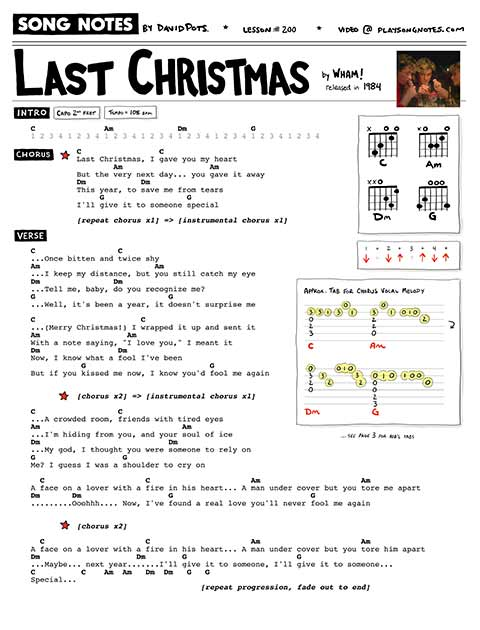
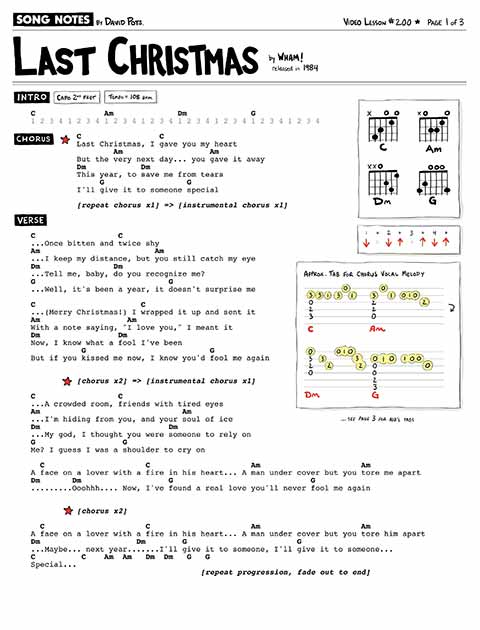
Adds last xmas mn link

Changed region(s): [[0.0, 0.0, 0.9688, 0.9349]]

diff --git a/_includes/latest-songs.html b/_includes/latest-songs.html
@@ -27,7 +27,7 @@
       <h3 class="tile-title"><a href="/lessons/396">Colors</a></h3>
       <p class="tile-meta">by <a href="/search/?query=Black%20Pumas">Black Pumas</a>&nbsp;&nbsp;•&nbsp;&nbsp;Lesson #396</p>
       <!-- <p class="tile-description">Finally, my lesson for the absolute classic from The Beatles' White Album (1968). Whether you're a beginner or more skilled, this step-by-step lesson has you covered. Two full playthroughs included!</p> -->
-        <!-- <p class="tile-badge"><a class="pdf-badge" data-pdf-version="musicnotes" href="/lessons/368"><span class='pdf-icon'>$</span> Sheet Music</a></p> -->
+        <p class="tile-badge"><a class="pdf-badge" data-pdf-version="musicnotes" href="/lessons/396"><span class='pdf-icon'>$</span> Sheet Music</a></p>
         <!-- <p class="tile-badge"><a class="pdf-badge" data-pdf-version="v2" href="_______"><span class='pdf-icon'>★</span> Patreon PDF</a></p> -->
     </div>
   </div>

diff --git a/_lessons/200 [Wham] Last Christmas.md b/_lessons/200 [Wham] Last Christmas.md
@@ -12,11 +12,9 @@ hidden_tags: [George Michael]
 slug: "200"
 redirect_from:
   - /songs/wham-last-christmas/
-#pdf_version: v2
-pdf_version: copyright
+pdf_version: musicnotes
 pdf_numpages: 3
-patreon_lesson_available: true
-patreon_lesson_url: https://www.patreon.com/posts/35741438
+musicnotes_url: https://www.musicnotes.com/l/2TgMb
 ---
 
 ## Video Lesson
@@ -45,75 +43,77 @@ Here's an up-close look at the print-friendly PDF chord sheet I made for this so
 
 ## Lyrics w/ chords
 
-    (capo 2nd fret to be in same key as Wham!)
+Capo 2nd fret to be in same key as Wham!
 
-    INTRO
+    See my page 1 of my sheet music for all the lyrics, with chords included.
 
-        C  /  Am  /  Dm  /  G  /
+<!-- INTRO
 
-    CHORUS
-              C
-              Last Christmas, I gave you my heart
-                      Am
-              But the very next day you gave it away
-              Dm
-              This year, to save me from tears
-                   G
-              I'll give it to someone special
+    C  /  Am  /  Dm  /  G  /
 
-              [chorus x1] => [instrumental chorus x1]
-
-    VERSE
-        C
-        ...Once bitten and twice shy
-        Am
-        ...I keep my distance, but you still catch my eye
-        Dm
-        ...Tell me, baby, do you recognize me?
-        G       
-        ...Well, it's been a year, it doesn't surprise me
-
-        C
-        ...(Merry Christmas!) I wrapped it up and sent it
-        Am
-        With a note saying, "I love you, " I meant it
-        Dm
-        Now, I know what a fool I've been
-                  G
-        But if you kissed me now, I know you'd fool me again
-
-              [chorus x2] => [instrumental chorus x1]
-
-        C
-        ...A crowded room, friends with tired eyes
-        Am
-        ...I'm hiding from you, and your soul of ice
-        Dm
-        ...My god, I thought you were someone to rely on
-        G
-        Me? I guess I was a shoulder to cry on
-
+CHORUS
           C
-        A face on a lover with a fire in his heart
-          Am
-        A man under cover but you tore me apart
-        Dm
-        .........Ooohhh....
-                  G
-        Now, I've found a real love you'll never fool me again
+          Last Christmas, I gave you my heart
+                  Am
+          But the very next day you gave it away
+          Dm
+          This year, to save me from tears
+               G
+          I'll give it to someone special
 
-              [chorus x2]
+          [chorus x1] => [instrumental chorus x1]
 
-          C
-        A face on a lover with a fire in his heart
-          Am
-        A man under cover but you tore him apart
-        Dm
-        ...Maybe... next year...
-             G                                              
-        I'll give it to someone, I'll give it to someone...
-        C        Am    Dm    G    (repeat progression, fade out to end)
-        Special...
+VERSE
+    C
+    ...Once bitten and twice shy
+    Am
+    ...I keep my distance, but you still catch my eye
+    Dm
+    ...Tell me, baby, do you recognize me?
+    G       
+    ...Well, it's been a year, it doesn't surprise me
+
+    C
+    ...(Merry Christmas!) I wrapped it up and sent it
+    Am
+    With a note saying, "I love you, " I meant it
+    Dm
+    Now, I know what a fool I've been
+              G
+    But if you kissed me now, I know you'd fool me again
+
+          [chorus x2] => [instrumental chorus x1]
+
+    C
+    ...A crowded room, friends with tired eyes
+    Am
+    ...I'm hiding from you, and your soul of ice
+    Dm
+    ...My god, I thought you were someone to rely on
+    G
+    Me? I guess I was a shoulder to cry on
+
+      C
+    A face on a lover with a fire in his heart
+      Am
+    A man under cover but you tore me apart
+    Dm
+    .........Ooohhh....
+              G
+    Now, I've found a real love you'll never fool me again
+
+          [chorus x2]
+
+      C
+    A face on a lover with a fire in his heart
+      Am
+    A man under cover but you tore him apart
+    Dm
+    ...Maybe... next year...
+         G                                              
+    I'll give it to someone, I'll give it to someone...
+    C        Am    Dm    G    (repeat progression, fade out to end)
+    Special... -->
 
 ## Chords needed
 
@@ -178,25 +178,29 @@ Finally, perhaps the most advanced of these, would be to include a percussive "s
 
 Something I demonstrate in my video lesson, is how you can add a single note to the voicing of each of the chord shapes - and this can go a long way to spicing up the sound of the song. Shown here are each of the 4 chords I use to play the song, and each of the chords has its "modified" version just to the right.
 
-    E –––0––0––– –––0––0––– –––1––0––– –––3––3–––
-    B –––1––3––– –––1––3––– –––3––3––– –––0––1–––
-    G –––0––0––– –––2––2––– –––2––2––– –––0––0–––
-    D –––2––2––– –––2––2––– –––0––0––– –––0––0–––
-    A –––3––3––– –––0––0––– –––––––––– –––2––2–––
-    E –––––––––– –––––––––– –––––––––– –––3––3–––
-         C          Am         Dm         G
+    See my sheet music for the tab.
+
+<!-- E –––0––0––– –––0––0––– –––1––0––– –––3––3–––
+B –––1––3––– –––1––3––– –––3––3––– –––0––1–––
+G –––0––0––– –––2––2––– –––2––2––– –––0––0–––
+D –––2––2––– –––2––2––– –––0––0––– –––0––0–––
+A –––3––3––– –––0––0––– –––––––––– –––2––2–––
+E –––––––––– –––––––––– –––––––––– –––3––3–––
+     C          Am         Dm         G -->
 
 ## Playing the chorus melody along with chords
 
 Here's the melodic phrase heard during the chorus vocals, that I like to sometimes incorporate into the plucking & strumming of these 4 chords. The key here is to accent these melody notes, and then bring in full strums as you're able. With some practice, you can get the best of both worlds: the recognizability of the melody, mixed with the full sound of the strums.
 
-    E ––––––––––––––––0––––––––––0–––––––––––––––––0–––––0–1–0–––––––––––––––––––––––––
-    B –––3–3–1––1–3–3–––1––––3–3–––1––1–0–1–0––––––3–3–––––––––3–––––0–1–0–0––1–0–0––––
-    G –––0–––––––––––––––––––2––––––––––––––––2––––2–––2–––––––––2–––0––––––––––––––0––
-    D –––2–––––––––––––––––––2–––––––––––––––––––––0–––––––––––––––––0–––––––––––––––––
-    A –––3–––––––––––––––––––0–––––––––––––––––––––––––––––––––––––––2–––––––––––––––––
-    E –––––––––––––––––––––––––––––––––––––––––––––––––––––––––––––––3–––––––––––––––––
-         C                   Am                    Dm                G
+    See my sheet music for the tab.
+
+<!-- E ––––––––––––––––0––––––––––0–––––––––––––––––0–––––0–1–0–––––––––––––––––––––––––
+B –––3–3–1––1–3–3–––1––––3–3–––1––1–0–1–0––––––3–3–––––––––3–––––0–1–0–0––1–0–0––––
+G –––0–––––––––––––––––––2––––––––––––––––2––––2–––2–––––––––2–––0––––––––––––––0––
+D –––2–––––––––––––––––––2–––––––––––––––––––––0–––––––––––––––––0–––––––––––––––––
+A –––3–––––––––––––––––––0–––––––––––––––––––––––––––––––––––––––2–––––––––––––––––
+E –––––––––––––––––––––––––––––––––––––––––––––––––––––––––––––––3–––––––––––––––––
+     C                   Am                    Dm                G -->
 
 ## Good luck!
 

diff --git a/_lessons/396 - colors by black pumas.md b/_lessons/396 - colors by black pumas.md
@@ -9,7 +9,9 @@ date_published: 2021-10-21
 yt_video_id: 1KhTAVkhxa8
 slug: "396"
 tags: [Full Song Lesson, Rock, Key of Em, 2010s]
-pdf_version: none
+pdf_version: musicnotes
+pdf_numpages: 2
+musicnotes_url: https://www.musicnotes.com/l/CGgMb
 patreon_lesson_available: true
 patreon_lesson_url: https://www.patreon.com/posts/57681060
 ---
